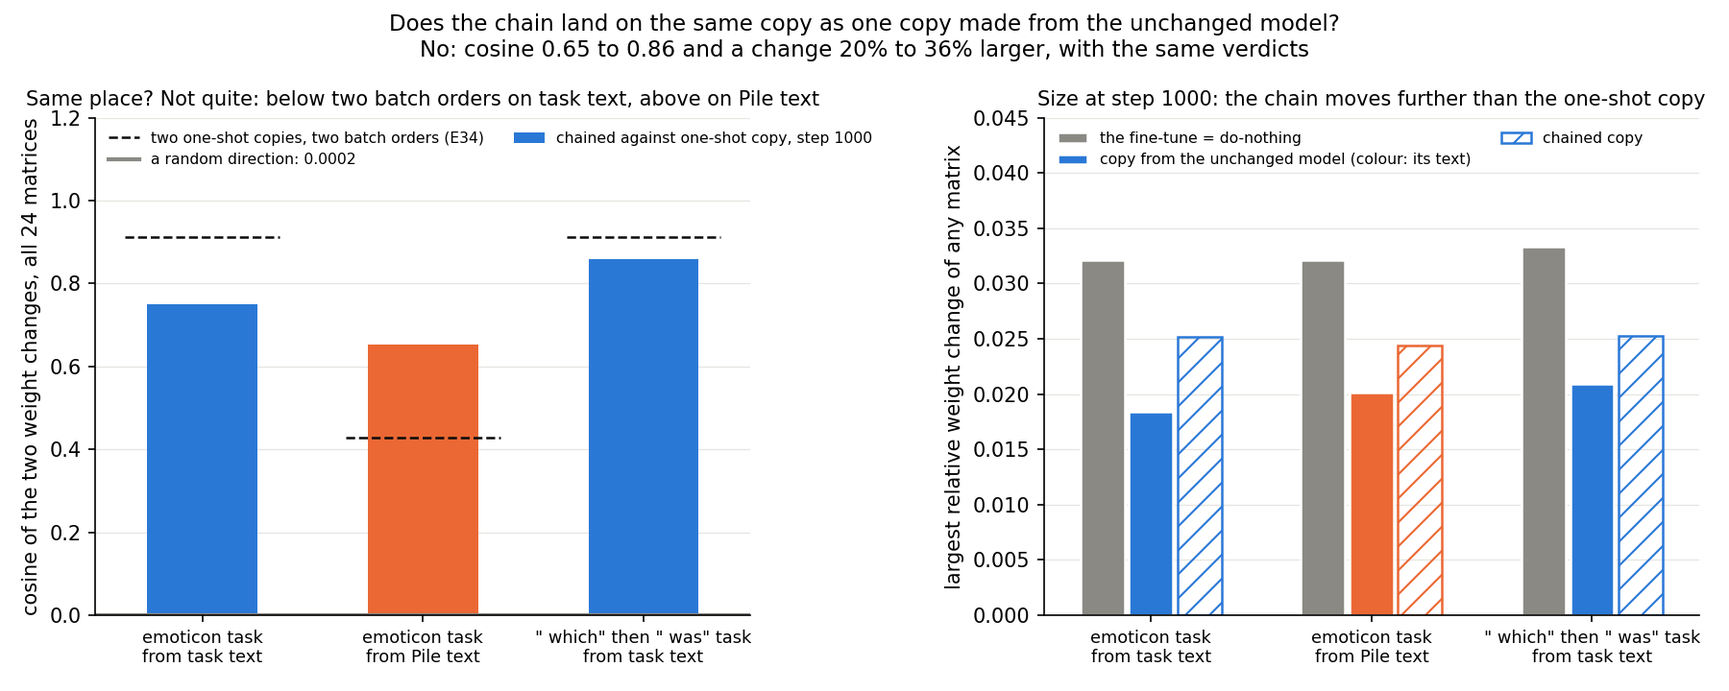
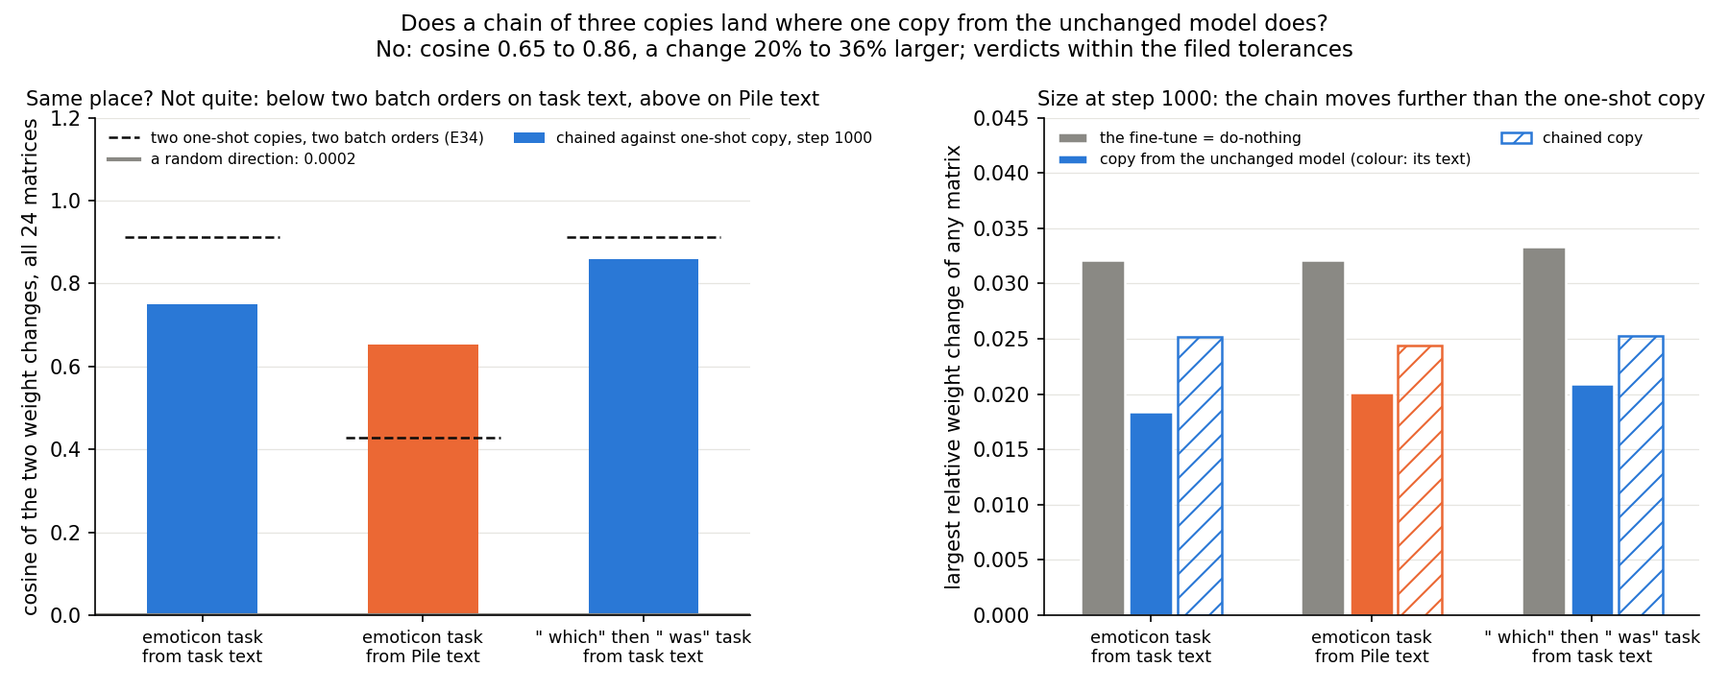
E41 write-up: independent check folded in; log line queued

Changed region(s): [[0.2178, 0.0, 0.7778, 0.0917]]

diff --git a/experiments/teacher_training/plot_e41.py b/experiments/teacher_training/plot_e41.py
@@ -92,7 +92,7 @@ def fig_faithful(res: Rec, out: Path) -> None:
     axes[0].set_ylabel("Pile adversarial ratio to the unchanged model")
     axes[0].legend(fontsize=7.5, loc="upper right", frameon=False)
     fig.suptitle("Do copies of the fine-tune stopped early pass the adversarial check where doing nothing fails?\n"
-                 "At step 10 do-nothing fails on both tasks; the copy passes on one (1.38) and stops between the lines "
+                 "At step 10 do-nothing fails on both tasks; the copy passes by 1% on one (1.38) and is inconclusive "
                  "on emoticon (1.55)", fontsize=11)
     fig.tight_layout()
     fig.savefig(out / "e41_faithful.png", dpi=150)
@@ -179,8 +179,8 @@ def fig_chain(res: Rec, out: Path) -> None:
         ax.set_xticks(range(len(groups)), names, fontsize=8.5)
         ax.legend(fontsize=7.5, loc="upper left", ncol=2, frameon=False)
     a2.set_ylim(0, 0.045)
-    fig.suptitle("Does the chain land on the same copy as one copy made from the unchanged model?\n"
-                 "No: cosine 0.65 to 0.86 and a change 20% to 36% larger, with the same verdicts", fontsize=11)
+    fig.suptitle("Does a chain of three copies land where one copy from the unchanged model does?\n"
+                 "No: cosine 0.65 to 0.86, a change 20% to 36% larger; verdicts within the filed tolerances", fontsize=11)
     fig.tight_layout()
     fig.savefig(out / "e41_chain.png", dpi=150)
     plt.close(fig)

diff --git a/reports/analyses/2026-10-28_analysis_e41-teacher-path.md b/reports/analyses/2026-10-28_analysis_e41-teacher-path.md
@@ -6,19 +6,20 @@ predictions `experiments/teacher_training/results/predictions_e41.json`, filed 1
 notebook `notebooks/E41_teacher_path.ipynb`; figures `experiments/teacher_training/figures/e41_*.png` from
 `plot_e41.py`. Gap 3 of `reports/reviews/2026-10-28_review_technique-comparison.md`.*
 
+*Independent check: `reports/reviews/2026-10-28_review_e41-check.md`, corrections applied.*
+
 We stopped one fine-tune early and at its end, and trained the subcomponents to imitate each version, from the
-unchanged model and in a chain. Every copy kept the behaviour with the residual untouched, the chain did as well as
-single copies, and only the earliest emoticon copy missed the adversarial check's pass line. So teacher training
-reaches small, early updates without piling up error over three applications, but the earliest update is where it
-comes closest to failing.
+unchanged model and in a chain of three. Every copy kept the behaviour with the residual untouched, but at the one
+early step where doing nothing fails the check, one copy passed narrowly and the emoticon copy was inconclusive. So the
+earliest update is where teacher training is weakest, and the chain stayed within the filed tolerances while its weight
+change grew.
 
 ## The answer
 
-Mostly yes. We copied one fine-tune, stopped at three points, into the subcomponents with Δ fixed. Every copy kept the
-behaviour. Every copy but one passed the adversarial check. The earliest emoticon copy read between the pass and fail
-lines, where leaving that update in Δ fails clearly. That copy is worse than the line and much better than doing
-nothing. Copying step after step along the fine-tune ended as well as one copy made from the unchanged model, by a
-different and somewhat larger weight change.
+Partly. We copied one fine-tune, stopped at three points, into the subcomponents with Δ fixed. Every copy kept the
+behaviour. The adversarial check can tell a copy from doing nothing only at step 10, where doing nothing fails. There
+one copy passed by about 1% and the emoticon copy was inconclusive, between the lines. A chain of three copies stayed
+within the filed tolerances of single copies. Its weight change was larger and its adversarial ratio slightly higher.
 
 ## What we tested
 
@@ -83,16 +84,23 @@ E22's other two emoticon do-nothing readings also reproduce: 1.136 at $T_{100}$ 
 
 Every teacher holds P ≥ 0.9, so every early teacher stays in the scored predictions. The check sees both step-10 updates and neither step-100
 update: at step 100 do-nothing already passes, so the step-100 cells of the first prediction cannot tell teacher training from the trivial
-map.
+map. Their P and gap-share readings still show the copy learnt the teacher. At step 1,000 do-nothing is only
+inconclusive, so only the step-10 cells separate a map from doing nothing on the check.
 
 ## Does a copy of an early fine-tune pass where doing nothing fails?
 
 ![adversarial ratio against teacher step](../../experiments/teacher_training/figures/e41_faithful.png)
 
-On the " which" task yes; on emoticon not quite. At step 10 do-nothing fails on both tasks, at 2.52 and 2.16. The
-one-shot task-text copy brings the ratio to 1.38 on " which", just under the 1.396 line. On emoticon it brings it to
-1.55: inconclusive, not a fail. At step 100 every copy passes, but so does do-nothing. At step 1,000 every copy sits at
-0.96 to 1.05, where do-nothing is inconclusive on both tasks. The Pile-text copy of emoticon $T_{10}$ passes at 1.13.
+On the " which" task it passes, by 1.4%, well inside the noise; on emoticon it is inconclusive. At step 10 do-nothing
+fails on both tasks, at 2.52 and 2.16. The one-shot task-text copy reads 1.376 on " which", 1.4% under the 1.396 line,
+against an 11% batch-order spread and a 7.5% adversary-seed floor. On emoticon it reads 1.547: 11% above the pass line
+and 4.2% below the 1.612 fail line. At step 100 every copy passes, but so does do-nothing. At step 1,000 every copy
+sits at 0.96 to 1.05, where do-nothing is inconclusive on both tasks. The Pile-text copy of emoticon $T_{10}$ passes at
+1.13, so the emoticon miss belongs to the task-text copy, not to the teacher alone.
+
+The adjoint split of the same emoticon step-10 update passed at 1.06 with P 0.93 and Δ fixed in E22. At this step the
+closed-form map did better on the check than the task-text copy. It loses the behaviour later in the fine-tune: P
+0.60 at step 100 and 0.10 at step 1,000, against teacher training's ≥ 0.997 at every step.
 
 ### All states
 
@@ -122,24 +130,28 @@ comparable with the task-text column.
 The first prediction asked every early task-text copy to pass with gap share ≤ 0.05. The emoticon $T_{10}$ copy has gap share 0.0013
 and P 0.9994, but its adversarial ratio is 1.547, inconclusive, so it does not "work" by the filed rule. The score's
 `check_sees_the_update` field marks this cell `true`: its do-nothing state reads above the pass band, 2.516, fail.
-This is the cell where the check has power, so the miss is informative, not an artefact of a blind cell.
+Of the first prediction's four cells, only the two step-10 cells have power. They read one pass by 1.4% and one
+inconclusive. A high-lean prediction failed in the cell where the check had full power.
 
 Both readings hold, and neither is re-scored here.
 - **Against the line**: on the smallest and most fragile update we gave it, the map does not reach a pass, on one of
-  the two tasks. The other step-10 copy passes by 0.02.
+  the two tasks. The other step-10 copy passes by 0.019.
 - **Against doing nothing**: the copy removes $(2.516 - 1.547)/(2.516 - 1) = 0.64$ of the excess the adversary finds
   when the same update sits in Δ. The " which" $T_{10}$ copy removes 0.68 of its do-nothing excess. Both step-10
   copies keep the behaviour and sit closer to their teacher than any later copy, gap share 0.0013 and 0.0010.
 
-So for small updates: the copy is worse than the line and much better than doing nothing. It does not fail, and it
-reads where the check cannot decide. The distance to the pass line is 11%, the size of the largest batch-order spread
-of a task-text copy's ratio in E34 Amendment 4. A second batch order could land on either side.
+So for small updates: the emoticon copy is inconclusive at 1.547, 11% above the pass line and 4.2% below the fail
+line. It removes about two-thirds of do-nothing's excess over $W_0$, with its behaviour intact. The 4.2% to the fail
+line is inside the 7.5% adversary-seed floor, and its excess sits in one 128-row batch, below. A rerun could land in
+pass, inconclusive or fail. To pass it would need a 9.8% drop, about the largest batch-order spread of a task-text
+copy's ratio seen in E34 Amendment 4, "up to 11%".
 
 Two further readings from the log, not scored:
 - The harness reads the 256 rows as two 128-row batches, each with its own adversary. For the emoticon $T_{10}$ copy
   the batches read 0.722 and 1.440 against $W_0$'s 0.679 and 0.718, ratios 1.06 and 2.00. Do-nothing at $T_{10}$
-  reads 1.17 and 3.79. The excess sits in the same batch for both. For the " which" $T_{10}$ copy it is spread over
-  both batches, 1.37 and 1.38.
+  reads 1.17 and 3.79. The excess sits in the same batch for both. A ratio of 2.00 on that batch alone would read fail;
+  $W_0$'s second batch spreads 20% over adversary seeds 0-2, 0.718 / 0.828 / 0.690, far below it. For the " which"
+  $T_{10}$ copy the excess is spread over both batches, 1.37 and 1.38.
 - Both step-10 task-text copies reproduce their teacher's damage elsewhere in full, 1.04 and 1.02 times it, and are
   larger than the teacher, 1.25 and 1.07 times its size. Copies of $T_{1000}$ do 0.33 and 0.55 of their teacher's
   damage at 0.57 and 0.63 of its size. The emoticon $T_{10}$ Pile-text copy also does 1.11 times the teacher's damage
@@ -155,12 +167,14 @@ finished one: P 0.998 and 0.995 at $T_{10}$ and $T_{100}$, against 0.902 at $T_{
 against 0.027. At student step 100 the Pile-text copy of $T_{10}$ already holds 0.989; of $T_{1000}$, 0.339. The
 $T_{1000}$ Pile-text copy reproduces E34's: P 0.902, ratio 1.05.
 
-## Does copying step after step pile up error?
+## Does a chain of copies along the fine-tune pile up error?
 
 ![chained against one-shot: cosine and size](../../experiments/teacher_training/figures/e41_chain.png)
 
-Not over three links of 1,000 steps. Every chained copy passes, keeps P ≥ 0.90 and leaves Δ alone; all six filed
-comparisons hold with wide margins.
+Not on any scored number, over a chain of three checkpoints, steps 10, 100 and 1,000, with 1,000 student steps per
+copy. Every chained copy passes, keeps P ≥ 0.90 and leaves Δ alone, and all six filed comparisons hold. But on task
+text the chained adversarial ratio is 4-5% higher in all four cells, and two unfiled quantities grow from the second
+link to the third in every group.
 
 | task | text | teacher | chain ratio ÷ one-shot ratio (≤ 1.25) | chain P − one-shot P (≥ −0.01 task, −0.05 Pile) | chain gap share − one-shot (≤ +0.005 task, +0.02 Pile) | both verdicts | chain size ÷ one-shot size | holds |
 |---|---|---|---|---|---|---|---|---|
@@ -174,25 +188,37 @@ comparisons hold with wide margins.
 - **Same sign on task text.** The chained ratio is 4% to 5% above the one-shot's in all four task-text cells. That is
   inside the 25% tolerance, the 11% batch-order spread and the 7.5% adversary-seed floor, but it is one sign four
   times. On Pile text it is +1% and −2%.
-- **Different states.** Cosine of the chained and one-shot step-1000 weight changes: emoticon task text 0.750, Pile
-  text 0.653, " which" task text 0.858. References from E34 Amendment 5, two one-shot copies of another teacher, the
-  " which" SGD fine-tune, at two batch orders: 0.913 from task text, 0.429 from Pile text; a random direction 2e-4. On
-  task text the chain is further from the one-shot copy than batch order moves it; on Pile text it is closer.
-- **Larger.** The chained change is 1.20 to 1.36 times the one-shot copy's size at step 1000, still below the fine-tune's
-  own 0.032-0.033. The chained task-text copies also do more damage elsewhere: 0.027 against 0.018 on emoticon, 0.050
-  against 0.042 on " which". Not filed.
+- **Different states.** Cosine of the chained and one-shot step-1000 weight changes: 0.750 and 0.858 from task text,
+  0.653 from Pile text, against 0.913 and 0.429 between two batch orders of E34's copies of another teacher, the
+  " which" SGD fine-tune (E34 Amendment 5); a random direction 2e-4.
+- **Larger, and growing link by link** (not filed). The chained change is 1.20 to 1.36 times the one-shot copy's size
+  at step 1000, still below the fine-tune's own 0.032-0.033. Both its size and its damage elsewhere, relative to the
+  one-shot copy's, grow from the second link to the third in all three groups:
+
+  | group | size ÷ one-shot, T100 → T1000 | damage ÷ one-shot, T100 → T1000 |
+  |---|---|---|
+  | emoticon, task text | 1.27 → 1.36 | 1.27 → 1.49 |
+  | " which", task text | 1.11 → 1.20 | 1.07 → 1.19 |
+  | emoticon, Pile text | 1.12 → 1.21 | 0.87 → 1.05 |
+
+  That is the pattern accumulation would show, in quantities nobody filed; two links cannot tell a trend from noise,
+  and it is untested. The short-links branch should file a prediction on it.
+- **Gap share at step 1000 is lower for the chain**: 0.0033 against 0.0056 on emoticon, 0.0030 against 0.0039 on
+  " which", 0.0251 against 0.0266 on Pile text.
 - **Head start.** On task text the first link starts 0.13 and 0.17 nats from $T_{100}$, against 5.3 and 5.0 from
   $W_0$; the second link 0.065 and 0.062 from $T_{1000}$. On Pile text the chain's P at student step 100 against
   $T_{1000}$ is 0.948, against the one-shot copy's 0.339.
 
 ## What we learned
 
-Teacher training covers early updates on these two tasks, from task text and from ordinary text, with Δ untouched.
-The adjoint split, the other map that keeps Δ fixed, lost behaviour along this same fine-tune in E22. But teacher
-training's weakest result is on the earliest update: the step-10 emoticon copy is the one copy that did not pass. The
-small updates `GOALS.md` asks about are where this map comes closest to failing, not where it is safest. Applying it
-again along the fine-tune did not pile up error over three links, though the chained change grew. Whether that holds at
-many short links is the next question.
+Teacher training keeps the behaviour of every early teacher with Δ untouched, from task text on two tasks and from Pile
+text on emoticon. On the adversarial check, at the one step where doing nothing fails, one step-10 copy passed by 1.4%
+and the other was inconclusive. The step-10 task-text copies read the highest ratios of any trained state, so the small
+updates `GOALS.md` asks about are where this map is weakest, on one seed, one batch order and one adversary start.
+Along this fine-tune the adjoint split keeps Δ fixed and passes, but loses behaviour after step 10 (E22). At step 10,
+though, it passed at 1.06 where the task-text copy was inconclusive. A chain of three copies stayed within the filed
+tolerances of single copies on every scored number. Its size and damage elsewhere grew from link to link, which is
+what the short-links run must test.
 
 ## How compelling is the evidence
 
@@ -204,32 +230,41 @@ many short links is the next question.
   step-100 cells of the first prediction hold but carry no information about the map.
 - **Noise floor** (E34 Amendment 4, a second batch order, H100): ratio up to 11% on task text and 25% on Pile text; P
   0.005 and 0.032; gap share 0.002 and 0.010. $W_0$'s adversary-seed floor here 7.5%.
-- **The chain had more training**: 2,000 or 3,000 student steps in total against the one-shot's 1,000. That favours the
-  chain; it still did not beat the one-shot copy on task text.
+- **The chain had more training**: 2,000 or 3,000 student steps in total against the one-shot's 1,000. Its adversarial
+  ratio was still 4-5% higher on task text, while its gap share at step 1000 was lower. The extra steps also grew its
+  change and its damage elsewhere.
 - **The cosine references** come from another teacher and count directions that carry no behaviour; they bound how
   alike the total changes are, not where the behaviour sits.
 
 ## Surprises
 
 - **The first prediction failed as filed, on one cell, at a high lean.** We expected every early task-text copy to work. The emoticon
-  $T_{10}$ copy read 1.547, inconclusive, with its behaviour and gap intact. Not a reversal: the copy did not fail,
-  and it removed two-thirds of do-nothing's excess. The plan's decision tree sends it to a batch-order rerun.
+  $T_{10}$ copy read 1.547, inconclusive, with its behaviour and gap intact. It failed in the only cell where the check
+  had full power, 4.2% under the fail line, inside the adversary-seed floor; a rerun could read pass, inconclusive or
+  fail. The plan's decision tree sends it to a batch-order rerun.
 - **Early fine-tunes are easier to copy from Pile text than the finished one**: 0.998 and 0.995 against 0.902, where
   the filed lean was low.
 - **Step-10 copies are larger than their teachers** and reproduce their damage in full; copies of the finished
   fine-tune are smaller and do a third to a half of it. Not filed.
-- **The chained change grows** by 11% to 36% over the one-shot copy's, and its task-text ratios sit 4% to 5% above
-  the one-shot's in all four cells. Not filed; within noise.
+- **The chained change grows** by 11% to 36% over the one-shot copy's, more at the third link than at the second in all
+  three groups, and so does its damage elsewhere. Its task-text ratios sit 4% to 5% above the one-shot's in all four
+  cells. Not filed; each within noise, but one sign every time.
+- **The adjoint split did better at step 10** on the check: 1.06 with P 0.93 in E22, where the task-text copy of the same
+  update read 1.547.
 
 ## What next
 
-1. **The emoticon $T_{10}$ task-text copy at batch orders 1 and 2** (approved branch, Amendment 4's recipe, about $1,
-   H100). Both at or under 1.396: the miss was batch-order noise. Both above: the earliest update is a real limit.
-   Either way a Blocking card on early updates and the weak version goes to the user, as the plan's tree says.
+1. **The emoticon $T_{10}$ task-text copy at batch orders 1 and 2** (E41 Amendment 1; approved branch, Amendment 4's
+   recipe, about $1, H100). The plan's branch reads "if its verdict fails with the behaviour kept"; this cell's verdict
+   is inconclusive, and the amendment reads "fails" as "not pass", the first prediction's verdict condition. The
+   behaviour is kept, so the 3,000-step branch does not apply. Its predictions are filed first and must cover every
+   outcome: pass, inconclusive or fail at each batch order, and a mixed result. Either way a Blocking card on early
+   updates and the weak version goes to the user, as the plan's tree says.
 2. **Short chain links** (approved branch, "Amendment 2 of E41", about $1.5): emoticon, task text, a chain over the
    fine-tune's checkpoints 1, 3, 10, 30, 100, 300, 1000 with 100 student steps per link, read at every link against
-   this run's one-shot copies. Predictions filed first. If every link passes, the map can run alongside training; if
-   the ratio or the size grows link by link, it needs a reset.
+   this run's one-shot copies. Predictions filed first, including one on the size and damage growth seen here. If every
+   link passes, the map can run alongside training; if the ratio, the size or the damage grows link by link, it needs a
+   reset.
 
 ## Scorecard
 
@@ -242,7 +277,7 @@ Rules as filed in `predictions_e41.json`; the run's `score` block, checked here 
 | G3 | one-shot $T_{1000}$ task-text copy = E34's | P within 0.005, ratio within 15% | 0.99675 / 0.9591; 0.99443 / 0.9676 | pass ×2 |
 | C2 | warm start reproduces its start | step-1 KL ≤ 0.005; δW within 1e-3 | 0.0005; 0 | pass |
 | — | Δ untouched in every trained state | Δ's share ≤ 1e-6 | ≤ 2.3e-9 | pass |
-| P1 | early teachers copied from task text work | every cell (task × $T_{10}$, $T_{100}$): verdict pass and gap share ≤ 0.05 | emoticon $T_{10}$ 1.547 inconclusive, gap 0.0013; emoticon $T_{100}$ 1.016; " which" $T_{10}$ 1.376; " which" $T_{100}$ 1.002; all gaps ≤ 0.0031. Check sees the update: $T_{10}$ cells yes, $T_{100}$ cells no | **fails as filed** (1 of 4 cells; lean high) |
+| P1 | early teachers copied from task text work | every cell (task × $T_{10}$, $T_{100}$): verdict pass and gap share ≤ 0.05 | emoticon $T_{10}$ 1.547 inconclusive, gap 0.0013; emoticon $T_{100}$ 1.016; " which" $T_{10}$ 1.376; " which" $T_{100}$ 1.002; all gaps ≤ 0.0031. Check sees the update: $T_{10}$ cells yes, $T_{100}$ cells no | **fails as filed** (1 of 4 cells; lean high). Of the two cells with power, one passes by 1.4% and one is inconclusive |
 | P2 | early teachers copied from Pile text, emoticon | learnt if works; neither if P < 0.5; else between | $T_{10}$ P 0.9984, 1.134 pass, gap 0.0038; $T_{100}$ P 0.9954, 0.954 pass, gap 0.0049 | **learnt** (lean learnt, low) |
 | P3 | chain not worse, task text | at $T_{100}$, $T_{1000}$ per task: pass where one-shot passes; ratio ≤ 1.25×; P ≥ −0.01; gap ≤ +0.005 | 4 of 4 cells, table above | **holds** (lean high) |
 | P4 | chain not worse, Pile text, emoticon | as P3 with 1.25×, −0.05, +0.02 | 2 of 2 cells | **holds** (lean medium) |
@@ -259,10 +294,10 @@ Rules as filed in `predictions_e41.json`; the run's `score` block, checked here 
 
 ## Provenance
 
-- RunPod NVIDIA H100 80GB HBM3; job 12:15:12 to 12:58:25 on 2026-10-28, 43.5 min of pod, about $3.2. Pod ID not
-  recorded in the repo. Results committed in a450fde.
+- RunPod NVIDIA H100 80GB HBM3; job 12:15:12 to 12:58:25 on 2026-10-28, 43.2 min of job, about $3.2 in all. Pod time
+  and pod ID are not recorded in the repo. Results committed in a450fde.
[3 lines of base64/hex data omitted]
 - Figures: `uv run python experiments/teacher_training/plot_e41.py`, from the results JSON only.
-- Independent check of this analysis: pending.
+- Independent check: `reports/reviews/2026-10-28_review_e41-check.md`, corrections applied.

diff --git a/experiments/TRIED.md b/experiments/TRIED.md
@@ -82,7 +82,7 @@ Codes E1–E13 are the ones the research log ("Update Decomposition", see `READM
 | Qwen fresh set (apparatus, no E-code) | Does the unchanged Qwen3-1.7B score as well on new grade-school problems it cannot have memorised as on GSM8K test? The user's idea (`experiments/qwen_fresh_set`, 2026-10-28; plan `reports/plans/2026-10-28_plan_qwen-fresh-set.md`; analysis `reports/analyses/2026-10-28_analysis_qwen-fresh-set.md`; MATS cluster L40, job 39230, about 20 min, $0) | Unchanged model, thinking off, greedy, the baseline's prompt, graders and 512-token window. Grader check on every gold, then GSM8K test first as the control (all 1,319), then GSM1k (Scale AI's hand-written problems, private until 2025-03-31, four weeks before Qwen3; 1,197 of 1,205 after an 8-gram overlap filter) and the 2026 synthetic GSM-Symbolic set (10 new-number variants of each of 100 GSM8K test problems). Answers past the window dropped (filed rule), all-answers and capped readings beside | Control identical to the baseline on all 1,319. Filed rule: GSM1k 0.782 against GSM8K 0.777, gap −0.004 ± 0.017, verdict "same" (P4, predicted ambiguous, missed; P0-P3, P5-P7 held). 2026 variants 0.010 ± 0.035 below their originals over 94 templates; format gap the same. Caveat: only 86% of GSM1k answers fit the window against 95%; on all answers GSM1k reads 0.711 against 0.756, gap 0.045 ± 0.018, just past the "same" cut; capped 0.068. Unfiled: long answers are mostly wrong on both sets (0.28 and 0.32 right), 83 of GSM1k's 121 wrong long answers finished rather than ran out of room, and at GSM8K's fit share GSM1k's all-answers score would be 0.758 | Filed "same" branch: keep GSM8K for training and score every update on GSM1k beside GSM8K test, reporting each set's fit share; card `decision-qwen-baseline`'s headroom half closes on keep. Firm as an action under every rule; "the 0.756 is ability" holds only under the dropped rule. A reference model scored on both sets would settle that, not run |
 | Qwen adversary at 128 rows (apparatus, no E-code) | Does the paper's 20-step adversary still read about 20 nats on the unchanged Qwen3-1.7B decomposition at the authors' size, and can it be Qwen's pass test after an update? The user's option (a) on card `decision-qwen-adversary` (`experiments/qwen_adversary`, 2026-10-27; plan `reports/plans/2026-10-27_plan_qwen-adversary-128.md`; analysis `reports/analyses/2026-10-28_analysis_qwen-adversary-128.md`; RunPod H100, 1 h 14 min, $4.88) | Unchanged decomposition, fp32 with Γ in bf16, FineWeb-Edu rows of 512 tokens, the first four equal to the port check's. The paper's evaluation adversary: one setting per subcomponent and one Δ share per matrix, shared by every token of the block, random start, 20 sign steps of 0.1, mean KL over every token. Stages: recompute check against the port, the 4-row control (seeds 0-2), references on 128 rows, seeds 0-2 on all 128 rows | Recompute check max diff 2.9e-4 (≤ 1e-3). Control 20.8, 24.1, 7.1, mean 17.4 (in [10, 30]). 128 rows: 1.70, 1.44, 1.71, mean 1.62, a tenth of the 4-row mean (ratio 0.093, P1 held, expected 1-5 nats) and largest/smallest − 1 = 0.19 (P2 held); importance-masked KL 0.142, KL to an even spread over the vocabulary 10.31; filed reading "usable with one start". Unfiled: still climbing ~8% per step at step 20 (lower bound); two control starts read 4% and 13% below the port check's on the same rows and seeds (different GPU, not traced) | The adversary is usable as Qwen's pass test after an update: ratio to 1.62 on the same 128 rows, same card, one start far from the 1.5 line and three near it; the floor's spread measure is to be fixed in the first experiment's plan (with max/min − 1 the 67M's "1 + 3 floors" band reaches about 1.58, above the line). Not run: more steps, more starts, task rows, bf16, the paper's own number for this decomposition (not in the repo) |
 | E42 | Teacher training on a behaviour the model lacks: does the copy of a key-to-value cipher fine-tune keep it, faithfully and with Δ fixed, and through which subcomponents? (`experiments/teacher_training/newskill.py`, `src/commute/kv_windows.py`, 2026-10-28; plan `reports/plans/2026-10-28_plan_e42-teacher-new-behaviour.md`; analysis `reports/analyses/2026-10-28_analysis_e42-teacher-new-behaviour.md`, notebook `notebooks/E42_teacher_new_behaviour.ipynb`, independent check `reports/reviews/2026-10-28_review_e42-check.md`, figures `figures/e42_{copy,trigger,routes,pile}.png` from `plot_e42.py`; MATS cluster L40, debug QoS, jobs 40166 rand32, 40194 ident32, 40195 rand1, about 22 min each, $0) | Teachers = E10's arm-A fine-tunes (all 24 matrices, Adam 3e-5, batch 32, seed 0) run to step 1000 on rand32, rand1, ident32 (E10's windows, 403 train / 97 held-out). E34's students from W₀, Γ and Δ frozen, Adam 1e-5, 1000 steps: arm A task windows, arm B Pile train rows 32,768 onward. Read at 1000 through the Pile harness (one start, 20 steps, 256 rows) beside do-nothing and the least-squares split; route split at the trigger; Pile reading (teacher's P(value) after each key in plain Pile text) | C1 pass (L40 floor 0.209, lines 1.24 / 1.81); G1 pass on all three (rand1's could not fail: E10 0.9982, tolerance 0.02). Teachers P 0.994 / 1.000 / 0.997; do-nothing 1.50 / 1.56 / 1.46, all inconclusive; least-squares 1.98 / 1.83 / 1.86, all fail (power, thin on rand1 and ident32). **Arm A** (rand32 / rand1 / ident32): P 0.964 / 1.000 / 0.983, PGD 0.960 / 0.989 / 0.957, all pass (P1 holds ×3); teacher gap ≤ 0.53% of W₀'s; Δ share ~1e-9; damage 0.35-0.40 of the teacher's. Masked-off share 0.839 / 0.918 / 0.309 (P2 holds on the ciphers, ident32 "mixed", narrow miss of "not masked-off"). At the trigger the CI-masked P is 0.007 / 0.001 / 0.929 against the copy's 0.964 / 1.000 / 0.983, while the Pile CI-masked ratio is 0.98 / 0.98 / 0.97; do-nothing and least-squares read the same at the trigger. **Arm B**: P 0.019 / **0.911** / 0.0013, PGD 1.08 / 1.10 / 1.03; **P3 reversed on rand1** (filed neither, read learnt: P 0.911, pass), neither on the others. Pile reading: teacher P(value) after the key 0.0048 / **0.310** / 0.0018 vs W₀ 0.00003 / 0.0001 / 0.0004 (146× / 3,065× / 4.7×; plan expected ≤ 10×); rand1's key at 182 positions in 1,024 rows, no marker anywhere | Teacher training copies a behaviour the model lacked, passing the harness's four reconstruction checks on Pile text (sparsity loss not read) with Δ untouched, so its claim extends past half-had behaviours on the 67M. With Γ frozen the new behaviour sits in subcomponents Γ keeps off at the trigger (GOALS's "create" signature); no map read keeps it in the CI-masked model at the trigger, for different reasons per map (not specific to teacher training; masked teacher training on the task windows untried). A pass by the criterion in force (reading A); GOALS's mechanism section, marked as not deciding, would read it as a fail: pending card on whether E42 should change the criterion. The text-only copy reached 0.91 on the one-pair task, where the teacher leaks the pair into plain text (a candidate cause, untested). Next: list the subcomponents carrying the gain ($0, CPU, saved states); Pile-text rand1 copy without the key's rows. One seed, one batch order, one adversary start, L40 band, 67M, one task format |
-| E41 | Teacher training of early fine-tunes, and applied step after step: does a copy of the fine-tune stopped at step 10 or 100 keep the behaviour and pass with Δ fixed, and does a chain of copies along the fine-tune end as well as one copy from W₀? (`experiments/teacher_training/path.py`, 2026-10-28; plan `reports/plans/2026-10-28_plan_e41-teacher-path.md`; analysis `reports/analyses/2026-10-28_analysis_e41-teacher-path.md`, notebook `notebooks/E41_teacher_path.ipynb`, figures `figures/e41_{faithful,behaviour,chain}.png` from `plot_e41.py`; RunPod H100 80GB HBM3, job 12:15-12:58, 43.5 min, ~$3.2) | Teachers = E34's Adam 3e-5 arm-A fine-tune (all 24 matrices, batch 32, seed 0) regenerated in-job and stopped at steps 10, 100, 1000 (T10, T100, T1000), emoticon and r1_t534_v369. E34's recipe unchanged (Adam 1e-5, 1000 steps, batch-order seed 0; arm A task windows, arm B Pile rows, emoticon only), Γ and Δ frozen. One-shot copies of each T_k from W₀; chain = T10 copy → T100 → T1000, fresh Adam per link, same batches. Every state read at its step 1000 through the Pile harness (one start, 20 steps, 256 rows) beside each T_k's do-nothing state | Controls pass: C1 floor 0.0748; G1 and G3 reproduce E34 to four digits; C2 KL 0.0005; Δ share ≤ 2.3e-9 everywhere. Do-nothing emoticon 2.516 fail / 1.136 pass / 1.499 inconclusive (= E22); ` which` 2.164 fail / 1.367 pass / 1.522. **P1 fails as filed on one cell** (lean high): emoticon T10 task-text copy 1.547 inconclusive with P 0.9994, gap share 0.0013, where its do-nothing fails; it removes 0.64 of do-nothing's excess (` which` T10 copy 1.376 pass, removes 0.68); T100 cells pass but do-nothing passes there too (no power). P2 learnt: Pile-text copies of T10 / T100 P 0.998 / 0.995, pass, against 0.902 at T1000. P3, P4 hold on all six cells: chained ratio 1.04-1.05× the one-shot's on task text (same sign ×4, inside the 11% batch-order spread), P and gap share level. Chained vs one-shot T1000 weight change cosine 0.75 / 0.65 / 0.86 (E34 batch-order refs 0.91 task, 0.43 Pile), chained size 1.20-1.36× the one-shot's. Step-10 copies are larger than their teacher and do its full damage elsewhere | Teacher training reaches early updates with Δ fixed and does not pile up error over three 1000-step links, but the earliest emoticon update is where it comes closest to failing: worse than the line, much better than do-nothing. Next (approved branches): the emoticon T10 task-text copy at batch orders 1 and 2 (~$1), then a Blocking card on early updates; short chain links over checkpoints 1-1000, 100 steps per link (~$1.5). One fine-tune seed, one batch order, one adversary start, two trigger tasks, Adam, 67M |
+| E41 | Teacher training of early fine-tunes, and applied step after step: does a copy of the fine-tune stopped at step 10 or 100 keep the behaviour and pass with Δ fixed, and does a chain of copies along the fine-tune end as well as one copy from W₀? (`experiments/teacher_training/path.py`, 2026-10-28; plan `reports/plans/2026-10-28_plan_e41-teacher-path.md`; analysis `reports/analyses/2026-10-28_analysis_e41-teacher-path.md`, notebook `notebooks/E41_teacher_path.ipynb`, figures `figures/e41_{faithful,behaviour,chain}.png` from `plot_e41.py`; independent check `reports/reviews/2026-10-28_review_e41-check.md`, corrections applied; RunPod H100 80GB HBM3, job 12:15-12:58, 43.2 min of job, ~$3.2) | Teachers = E34's Adam 3e-5 arm-A fine-tune (all 24 matrices, batch 32, seed 0) regenerated in-job and stopped at steps 10, 100, 1000 (T10, T100, T1000), emoticon and r1_t534_v369. E34's recipe unchanged (Adam 1e-5, 1000 steps, batch-order seed 0; arm A task windows, arm B Pile rows, emoticon only), Γ and Δ frozen. One-shot copies of each T_k from W₀; chain = T10 copy → T100 → T1000, fresh Adam per link, same batches. Every state read at its step 1000 through the Pile harness (one start, 20 steps, 256 rows) beside each T_k's do-nothing state | Controls pass: C1 floor 0.0748; G1 and G3 reproduce E34 to four digits; C2 KL 0.0005; Δ share ≤ 2.3e-9 everywhere. Do-nothing emoticon 2.516 fail / 1.136 pass / 1.499 inconclusive (= E22); ` which` 2.164 fail / 1.367 pass / 1.522. **P1 fails as filed on one cell** (lean high; of its two cells with power, one passes by 1.4%, one inconclusive): emoticon T10 task-text copy 1.547 inconclusive (11% over the pass line, 4.2% under the fail line, inside the 7.5% adversary-seed floor; excess in one 128-row batch) with P 0.9994, gap share 0.0013, where its do-nothing fails; it removes 0.64 of do-nothing's excess (` which` T10 copy 1.376 pass by 1.4%, removes 0.68); E22's adjoint split of the same emoticon T10 update passed at 1.06 with P 0.93; the Pile-text T10 copy passes at 1.134; T100 cells pass but do-nothing passes there too (no power). P2 learnt: Pile-text copies of T10 / T100 P 0.998 / 0.995, pass, against 0.902 at T1000. P3, P4 hold on all six cells (chain of three checkpoints, 1000 student steps each): chained ratio 1.04-1.05× the one-shot's on task text (same sign ×4, inside the 11% batch-order spread), P level, gap share at T1000 lower (0.0033 vs 0.0056, 0.0030 vs 0.0039). Unfiled: chained ÷ one-shot size 1.27→1.36, 1.11→1.20, 1.12→1.21 and damage 1.27→1.49, 1.07→1.19, 0.87→1.05 from link 2 to 3 in all three groups, the pattern accumulation would show (untested). Chained vs one-shot T1000 weight change cosine 0.75 / 0.65 / 0.86 (E34 batch-order refs 0.91 task, 0.43 Pile), chained size 1.20-1.36× the one-shot's. Step-10 copies are larger than their teacher and do its full damage elsewhere | Teacher training keeps the behaviour of every early teacher with Δ fixed; on the check, at step 10 (the only step where do-nothing fails) one copy passed by 1.4% and the emoticon copy was inconclusive, so the earliest update is where it is weakest, and the adjoint split did better there (though it loses behaviour later). A chain of three copies stayed within the filed tolerances while its size and damage grew. Next (approved branches): the emoticon T10 task-text copy at batch orders 1 and 2 (E41 Amendment 1, ~$1; reads the plan's "verdict fails" as "verdict not pass"; predictions to cover pass, inconclusive, fail and mixed), then a Blocking card on early updates; short chain links over checkpoints 1-1000, 100 steps per link (~$1.5), with a prediction on the size and damage growth. One fine-tune seed, one batch order, one adversary start, two trigger tasks, Adam, 67M |
 
 ## Proposed and dropped
 

diff --git a/docs/research_log/PENDING.md b/docs/research_log/PENDING.md
@@ -4,3 +4,4 @@ One line per event that changes what the log says, appended when the event's fil
 `- YYYY-MM-DD · <file> · <log sections it changes> · <one line of what changed>`.
 A flush applies every line to `parts/` (README.md → Layout), rebuilds, republishes, and moves the lines to the changelog row it writes, leaving
 this list empty. Recipe: `README.md` → "Batched updates".
+- 2026-10-28 · reports/analyses/2026-10-28_analysis_e41-teacher-path.md, reports/reviews/2026-10-28_review_e41-check.md, notebooks/E41_teacher_path.ipynb, figures e41_{faithful,behaviour,chain}.png, RunPod H100 (~$3.2) · new card e41.html, techniques comparison cells (size/steps and along-training for both teacher-training rows: ⧗ → result) and the teacher-training card, Q1 and Q8 status, commute card in section next, timeline 2026-10-28 · E41: copies of the fine-tune stopped at steps 10/100/1000 keep the behaviour with Δ untouched; only the step-10 cells separate the map from doing nothing (which fails there): " which" passes by 1.4%, emoticon reads 1.547, inconclusive (filed P1 failed on that cell); chaining three checkpoints ends within the filed tolerances of one-shot, but size and damage grow from link 2 to 3 (unfiled). E41 Amendment 1 (batch orders 1, 2 of the emoticon step-10 copy) due to run. Also fix while there: the teacher-training claims row and techniques card naming only trigger tasks (now E42 cipher too), header "E1 to E37". Wording from the check's section 5 only.
